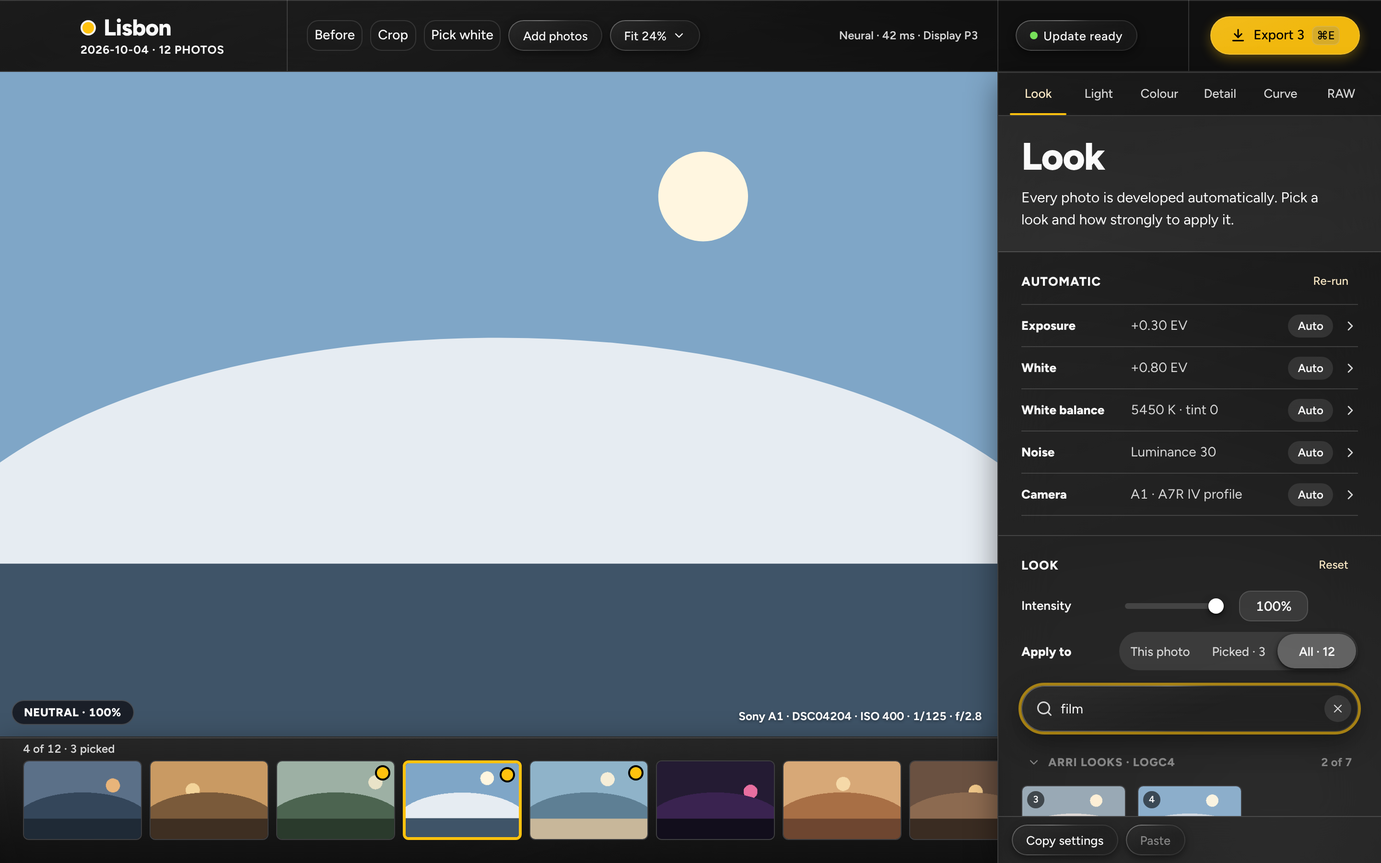
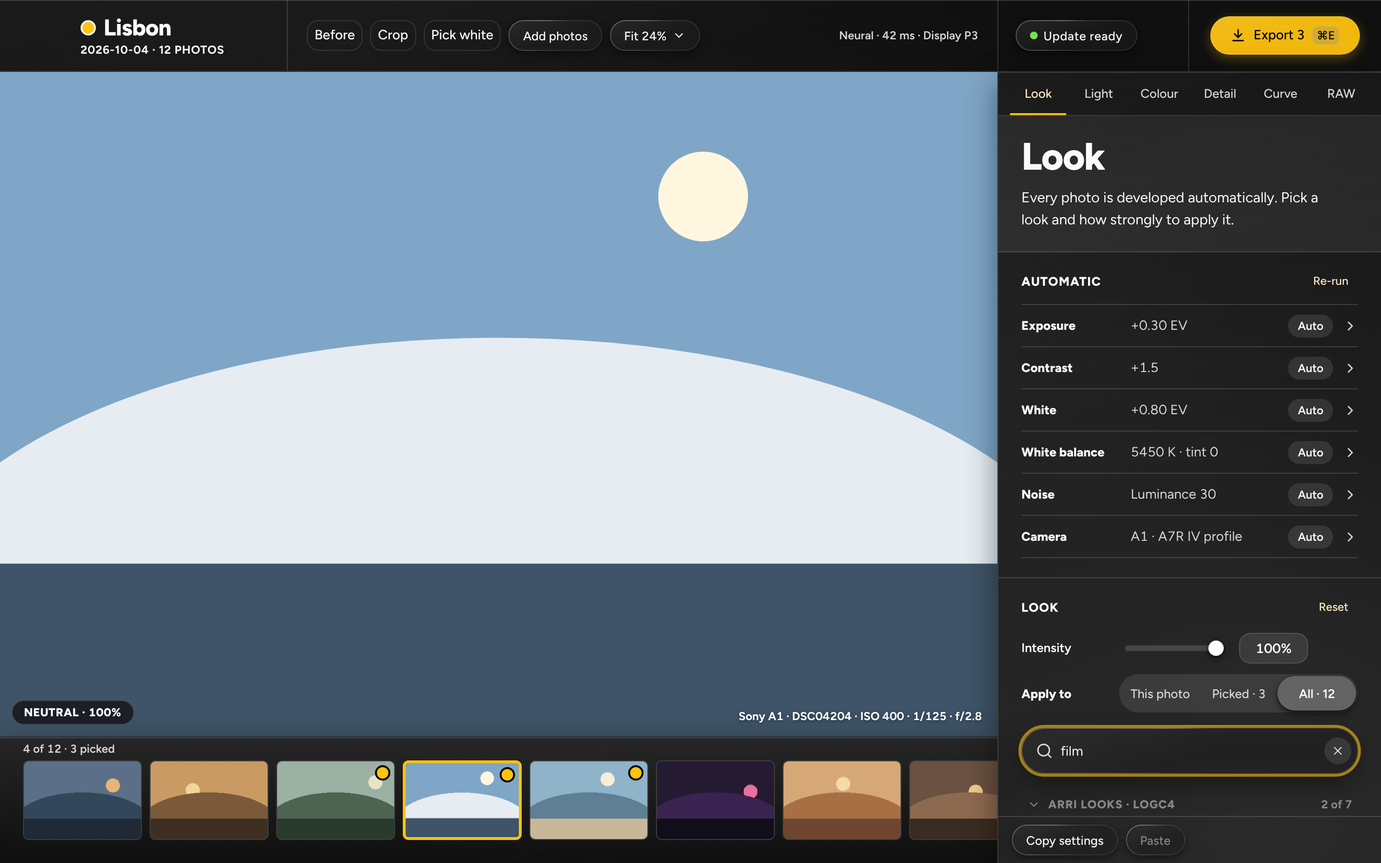
Frontend: contrast Auto or Manual, the Automatic card's Contrast row (AS-08)
Contrast is AutoOr like Exposure: Auto shows the photo's automatic
contrast, moving the slider makes it Manual, Reset returns Auto. The
Tone card's AUTO covers temperature and contrast; the Automatic card
gains a Contrast row; Re-run resets contrast with exposure. The Light
blurb now says exposure and contrast are set for each photo. Mock,
vitest (1593) and e2e updated; five screenshot references retaken for
the new row and blurb.

Claude-Session: https://claude.ai/code/session_015yVsquBXWFc8zJt2CLktQS

diff --git a/src/repo.node.test.ts b/src/repo.node.test.ts
@@ -60,9 +60,10 @@ describe("design tokens", () => {
 });
 
 describe("copy (docs/11 tab blurbs)", () => {
-  // Since 0.2.0 Auto exposure is the camera's own, so the Light tab no longer says it is set for each photo.
-  const LIGHT = "Exposure starts at your camera's own. Adjust it from there.";
-  const OLD = "Exposure is set for each photo automatically.";
+  // Since 0.5.0 Auto exposure and Auto contrast are chosen for each photo (docs/18); before that the line said exposure
+  // started at the camera's own, and before 0.2.0 that it was set for each photo automatically.
+  const LIGHT = "Exposure and contrast are set for each photo. Adjust them from there.";
+  const OLDS = ["Exposure is set for each photo automatically.", "Exposure starts at your camera's own. Adjust it from there."];
 
   it("the Light blurb is the same in the component, the mockup and docs/11", () => {
     expect(read("src/components/tabs.ts")).toContain(`blurb: "${LIGHT}"`);
@@ -70,9 +71,9 @@ describe("copy (docs/11 tab blurbs)", () => {
     expect(read("docs/11-ui.md")).toContain(`Light "${LIGHT}"`);
   });
 
-  it("the old Light blurb is gone from the component, the mockup and docs/11", () => {
-    for (const file of ["src/components/tabs.ts", "design/mockups/photos.html", "docs/11-ui.md"]) {
-      expect(read(file), file).not.toContain(OLD);
+  it("the old Light blurbs are gone from the component and the mockup", () => {
+    for (const file of ["src/components/tabs.ts", "design/mockups/photos.html"]) {
+      for (const old of OLDS) expect(read(file), file).not.toContain(old);
     }
   });
 });

diff --git a/src/api/bindings.ts b/src/api/bindings.ts
@@ -362,6 +362,20 @@ export type ColorWarpPin = {
 	exposure_ev: number,
 };
 
+/**
+ *  `contrast`: Auto, or a manual value from -100 to 100. The JSON is `{ "kind": "auto" }` or
+ *  `{ "kind": "manual", "value": 12 }`.
+ * 
+ *  (As `ExposureSetting`: each setting has its own enum with the same JSON as `types.ts`'s `AutoOr`.)
+ */
+export type ContrastSetting = 
+/**  Resolve from the photo's automatic estimates. */
+{ kind: "auto" } | 
+/**  The user's value. */
+{ kind: "manual"; 
+/**  Contrast, -100 to 100. */
+value: number };
+
 /**  The crop (per photo, in memory only): a rectangle, a straighten angle and an aspect. */
 export type Crop = {
 	/**  The frame. */
@@ -678,20 +692,6 @@ export type ExposureSetting =
 { kind: "manual"; 
 /**  Absolute exposure in stops, -4 to +4. */
 ev: number };
-
-/**
- *  `contrast`: Auto, or a manual value from -100 to 100. The JSON is `{ "kind": "auto" }` or
- *  `{ "kind": "manual", "value": 12 }`.
- *
- *  (As `ExposureSetting`: each setting has its own enum with the same JSON as `types.ts`'s `AutoOr`.)
- */
-export type ContrastSetting =
-/**  Resolve from the photo's automatic estimates. */
-{ kind: "auto" } |
-/**  The user's value. */
-{ kind: "manual";
-/**  Contrast, -100 to 100. */
-value: number };
 
 /**  Per-channel histogram of the current render, for the Light tab and the Curve plot. */
 export type HistogramData = {

diff --git a/src/api.mock.test.ts b/src/api.mock.test.ts
@@ -378,7 +378,7 @@ describe("settings", () => {
     expect((await api.rerunAuto(1)).values.output_sharpening).toBe(60);
   });
 
-  it("rerunAuto resets exposure, white balance and noise to Auto", async () => {
+  it("rerunAuto resets exposure, contrast, white balance and noise to Auto", async () => {
     await api.updateSettings(1, {
       exposure: { kind: "manual", ev: 1 },
       light_source: "tungsten",
@@ -387,8 +387,8 @@ describe("settings", () => {
       contrast: { kind: "manual", value: 20 },
     });
     const r = await api.rerunAuto(1);
-    expect(r.auto).toEqual({ exposure: true, contrast: false, light_source: true, white_balance: true, sharpen: true, noise_reduction: true });
-    expect(r.values.contrast).toBe(20); // other controls are not touched, contrast included (`docs/01`)
+    expect(r.auto).toEqual({ exposure: true, contrast: true, light_source: true, white_balance: true, sharpen: true, noise_reduction: true });
+    expect(r.values.contrast).toBe(4.2); // the photo's automatic contrast (`docs/01`: Re-run resets it with exposure)
   });
 
   it("gives each photo its own automatic contrast: a tenth, within ±30, with the model's confidences and version", async () => {

diff --git a/design/mockups/photos.html b/design/mockups/photos.html
@@ -286,7 +286,7 @@ class Component extends DCLogic {
     this.sg = sg;
     this.tabMeta = {
       look: { label: 'Look', bg: '#FFC20E', fg: '#000000', blurb: 'Every photo is developed automatically. Pick a look and how strongly to apply it.' },
-      light: { label: 'Light', bg: '#0DB7E8', fg: '#000000', blurb: 'Exposure starts at your camera\'s own. Adjust it from there.' },
+      light: { label: 'Light', bg: '#0DB7E8', fg: '#000000', blurb: 'Exposure and contrast are set for each photo. Adjust them from there.' },
       color: { label: 'Colour', bg: '#77E05A', fg: '#000000', blurb: 'White balance comes from the light in the scene. Set it by hand when you want a different mood.' },
       detail: { label: 'Detail', bg: '#F2B8AA', fg: '#000000', blurb: 'Sharpening and noise reduction, tuned for each ISO of your camera.' },
       curve: { label: 'Curve', bg: '#FF5A1F', fg: '#000000', blurb: 'Fine contrast, for all channels or one at a time.' },

diff --git a/e2e/screenshots.spec.ts b/e2e/screenshots.spec.ts
@@ -157,8 +157,10 @@ test.describe("Photos", () => {
     await photos(page);
     await page.getByRole("searchbox", { name: "Search looks" }).fill("film");
     await expect(page.getByText("2 of 7")).toBeVisible();
-    await expect.poll(async () => page.locator(".ym-look-tile img").count()).toBe(2);
+    // Since the Automatic card's Contrast row (docs/18) the grid starts just below the panel's fold at this size, and a tile asks
+    // for its picture only once it shows: lookTilesLoaded scrolls the first one into view, waits, and scrolls back.
     await lookTilesLoaded(page);
+    await expect.poll(async () => page.locator(".ym-look-tile img").count()).toBe(2);
     await compareScreen(page, "photos-look-search");
   });
 });

diff --git a/src/api.mock.ts b/src/api.mock.ts
@@ -1838,10 +1838,11 @@ export function createMockApi(initial: MockOptions = {}): MockApi {
     rerunAuto: (photoId) =>
       run("rerunAuto", () => {
         const rec = photo(photoId);
-        // Exposure, white (the lift's offset), white balance (including the light preset and a picked white) and noise.
+        // Exposure, contrast, white (the lift's offset), white balance (including the light preset and a picked white) and noise.
         rec.settings = {
           ...rec.settings,
           exposure: { kind: "auto" },
+          contrast: { kind: "auto" },
           white_offset_ev: 0,
           light_source: "auto",
           white_balance: { kind: "auto" },

diff --git a/src/components/TitleBlock.test.tsx b/src/components/TitleBlock.test.tsx
@@ -18,7 +18,7 @@ describe("TitleBlock", () => {
   it("has the six titles and blurbs of the mockup", () => {
     expect(TABS.map((t) => t.label)).toEqual(["Look", "Light", "Colour", "Detail", "Curve", "RAW"]);
     expect(TABS.find((t) => t.id === "curve")?.blurb).toBe("Fine contrast, for all channels or one at a time.");
-    expect(TABS.find((t) => t.id === "light")?.blurb).toBe("Exposure starts at your camera's own. Adjust it from there.");
+    expect(TABS.find((t) => t.id === "light")?.blurb).toBe("Exposure and contrast are set for each photo. Adjust them from there.");
   });
 
   it("can be the Export panel's black block", () => {

diff --git a/src/components/tabs.ts b/src/components/tabs.ts
@@ -19,7 +19,7 @@ export interface TabInfo {
 /** The tabs in bar order. ⌘1 selects the first, ⌘6 the last. */
 export const TABS: readonly TabInfo[] = [
   { id: "look", label: "Look", blurb: "Every photo is developed automatically. Pick a look and how strongly to apply it." },
-  { id: "light", label: "Light", blurb: "Exposure starts at your camera's own. Adjust it from there." },
+  { id: "light", label: "Light", blurb: "Exposure and contrast are set for each photo. Adjust them from there." },
   {
     id: "color",
     label: "Colour",

diff --git a/docs/11-ui.md b/docs/11-ui.md
@@ -79,7 +79,7 @@ Grid: columns `minmax(0, 1fr) 400px`; rows `75px auto minmax(124px, 1fr)`.
 | Curve | #FF5A1F | **Curve** (Luma · Red · Green · Blue; 320 × 220 plot with histogram; Input / Output readout) |
 | RAW | #0B5CC2 (white text) | **Camera** (Detected; Profile with STAND-IN tag when not exact; explanation) · **Decode** (Neural demosaic, Highlight recovery, Lens corrections from camera, Chromatic aberration) · **Range** (Highlights, Low light, a note; the owner's decision of 2026-10-17, the card was **Roll-off**) |
 
-Tab blurbs (from the mockup): Look "Every photo is developed automatically. Pick a look and how strongly to apply it." · Light "Exposure starts at your camera's own. Adjust it from there." (since 0.2.0 Auto exposure is the camera's own exposure, `docs/02`; the old line said it was set for each photo) · Colour "White balance comes from the light in the scene. Set it by hand when you want a different mood." · Detail "Sharpening and noise reduction, tuned for each ISO of your camera." · Curve "Fine contrast, for all channels or one at a time." · RAW "How the sensor data is decoded before any colour is applied."
+Tab blurbs (from the mockup): Look "Every photo is developed automatically. Pick a look and how strongly to apply it." · Light "Exposure and contrast are set for each photo. Adjust them from there." (since 0.5.0 Auto exposure and Auto contrast are chosen for each photo, `docs/18`; from 0.2.0 to 0.4.0 the line read "Exposure starts at your camera's own. Adjust it from there.", when Auto exposure was the camera's own) · Colour "White balance comes from the light in the scene. Set it by hand when you want a different mood." · Detail "Sharpening and noise reduction, tuned for each ISO of your camera." · Curve "Fine contrast, for all channels or one at a time." · RAW "How the sensor data is decoded before any colour is applied."
 
 Camera card copy: when `how = default`: "The A1 has no measured profile yet, so it borrows the A7R IV. Eleven Sony cameras have their own, and cameras that share their sensors use them." (body name substituted). When `SensorFamily`: "The <body> shares its sensor with the <profile body>, so it uses that profile." When Lossless M/S: add the REDUCED tag and the note from `docs/04`.
 
@@ -176,9 +176,9 @@ Start, Photos, the six tabs, Crop and Pick white are built in `src/screens/`, on
 - **Auto semantics.** A value equal to what Automatic resolves to *is* Automatic: typing +0.30 into Exposure, or dropping the slider on its detent, sends `{ exposure: { kind: "auto" } }` (the same for Contrast, Kelvin/Tint together, Sharpening and Noise reduction). Reset on a row of an Auto field sets only that value (and collapses to Auto when it matches); the card's Reset and the AUTO button send Auto. The AUTO button of the Exposure card says whether *exposure* is automatic, not Contrast or Brightness (Contrast has its own AUTO on its row, below). White balance counts as automatic only when `white_balance` is Auto, `light_source` is Auto and no white was picked.
 - **Output sharpening (the Output row of the Sharpening card; owner's decision of 2026-10-13, not in the mockup).** `design/mockups/photos-detail.html` has two rows in the Sharpening card; the third, **Output**, is added by that decision (`docs/16`) and the mockups are left as they were. The row is the standard slider: 0 to 200 %, step 5, the detent and Reset at **100 %**, the value shown as `100%` (`formats.percent`), no unit word, no AUTO tag. It is a plain number: moving it sends `{ output_sharpening: n }`, its own Reset and a double click send `{ output_sharpening: 100 }`, not Auto (`DevelopSettings.output_sharpening`, `docs/01`). Amount and Radius above it are the capture sharpening and stay exactly as they were (Auto, Richardson–Lucy). The card's Reset puts the whole card back: `{ sharpen: Auto, output_sharpening: 100 }` (like the Colour balance card, which resets its wheels and Saturation together). The viewport, the filmstrip thumbnails and the Look tiles show the sharpened picture as the slider moves, and the exports are made with it; the Before view, the histogram and the pixel readout do not (`docs/01`). Undo and redo take it like any field (one step per drag). There is nothing on the Export screen and no switch: 0 is off. The e2e screenshot of the Detail tab (`photos-detail`) therefore differs from the mockup's by the extra row; its budget in `e2e/helpers/compare.ts` is 2 % (measured 1.06 %). "Apply to" copies the look and its intensity only (`docs/01`), so the amount stays with the photo unless Copy settings and Paste move it (below: they take every setting but the crop, the orientation and the Pick white point, the output sharpening included; until the owner's request of 2026-10-16 the app had no copy-and-paste of other settings).
 - **Range card (the RAW tab's third card; owner's decision of 2026-10-17, `docs/02` C7, `docs/16`).** The card that was **Roll-off** is called **Range**, with the same two sliders and the same settings; Reset sends `{ rolloff: { highlights: 1, low_light: 0.5 } }`. **Highlights** is now the highlight range: 0 to 1 in steps of 0.01, the detent and Reset at 1 (the owner's choice of 2026-10-17; it was 0.5), shown with `formats.fixed2` (`1.00`); it moves where the camera's clipping point lands, from where it was recorded (0) to white (1), and leaves mid grey and everything up to a stop under the clip alone. **Low light** is unchanged (the toe near black). Under the two sliders a note (`RowNote`), word for word: "Highlights moves the brightest tones the camera recorded: 0 keeps them where they were, 1 takes them to white. Low light softens the noise near black." The labels name no camera maker (AGENTS rule 3); the spec and the CLI help say what the range models. The white lift's White card and White row stay (owner's decision of 2026-10-17: the range was first to replace them, then the lift was kept; see the next item). Tests: `src/screens/RangeCard.test.tsx` (the card's title, the two sliders, the note, Reset, a drag sends one `rolloff` patch), `e2e/` reference of the RAW tab retaken.
-- **White lift (the Light tab's White card and the Automatic card's White row; owner's decision of 2026-10-14, not in the mockup, `docs/02` C12 step 1b, `docs/16`).** The lift is an automatic setting: a per-photo scene-linear gain on the tones above +1 stop over middle grey, sized from the photo's own highlights when it is opened, that gives a high-key photo a real white (0 for a low-key one). **Automatic card:** a row **White** between Contrast and White balance, value `+0.77 EV` (the lift in effect, `values.white_ev`, `formats.ev` and " EV") or `None` when it is 0, the AUTO tag while the offset is 0 and EDITED otherwise, the arrow opening Light (accessible name `White +0.77 EV, Auto. Open Light`). **Light tab:** a second card, **White**, between Exposure and High dynamic range, with the AUTO button (accessible name "Auto white": ink while `white_offset_ev` is 0, pressing it sends `{ white_offset_ev: 0 }`), the card's Reset (the same patch) and one slider, **Offset**: −3 to +3 stops in steps of 0.05, the detent and Reset at 0 (the automatic amount), shown as signed stops with `formats.ev` and no unit word (`0.00`, `+0.30`, `−0.50`). It is a plain number, not Auto: moving it sends `{ white_offset_ev: n }` and shows at once (the Automatic card's row follows with the core's reply: `values.white_ev` is the automatic amount plus the offset, never below 0, so an offset of minus the automatic amount, or lower, reads `None` and gives the render of no lift). The row is called Offset because the Light tab already has a **White** slider in High dynamic range (the C9 control, −100 to 100); the two are different settings and the card is named White after the Automatic card's row, as the owner called it. Re-run on the Automatic card puts the offset back to 0 with exposure, white balance and noise. Undo and redo take it like any field (one step per drag). The lift acts only with the built-in ACES 2 display rendering; with an imported ARRI display LUT or a look with its own display rendering the slider still moves but nothing changes in the picture (ARRI's highlights). Tests: `src/screens/WhiteCard.test.tsx` (the card, the row, the AUTO semantics, Re-run, undo), `src/repo.node.test.ts` (the Light blurb), `e2e/` screenshots (the Light and Look tabs differ from the mockup by the new card and row; their budgets are in `e2e/helpers/compare.ts`).
+- **White lift (the Light tab's White card and the Automatic card's White row; owner's decision of 2026-10-14, not in the mockup, `docs/02` C12 step 1b, `docs/16`).** The lift is an automatic setting: a per-photo scene-linear gain on the tones above +1 stop over middle grey, sized from the photo's own highlights when it is opened, that gives a high-key photo a real white (0 for a low-key one). **Automatic card:** a row **White** between Contrast and White balance, value `+0.77 EV` (the lift in effect, `values.white_ev`, `formats.ev` and " EV") or `None` when it is 0, the AUTO tag while the offset is 0 and EDITED otherwise, the arrow opening Light (accessible name `White +0.77 EV, Auto. Open Light`). **Light tab:** a second card, **White**, between Exposure and High dynamic range, with the AUTO button (accessible name "Auto white": ink while `white_offset_ev` is 0, pressing it sends `{ white_offset_ev: 0 }`), the card's Reset (the same patch) and one slider, **Offset**: −3 to +3 stops in steps of 0.05, the detent and Reset at 0 (the automatic amount), shown as signed stops with `formats.ev` and no unit word (`0.00`, `+0.30`, `−0.50`). It is a plain number, not Auto: moving it sends `{ white_offset_ev: n }` and shows at once (the Automatic card's row follows with the core's reply: `values.white_ev` is the automatic amount plus the offset, never below 0, so an offset of minus the automatic amount, or lower, reads `None` and gives the render of no lift). The row is called Offset because the Light tab already has a **White** slider in High dynamic range (the C9 control, −100 to 100); the two are different settings and the card is named White after the Automatic card's row, as the owner called it. Re-run on the Automatic card puts the offset back to 0 with exposure, contrast, white balance and noise. Undo and redo take it like any field (one step per drag). The lift acts only with the built-in ACES 2 display rendering; with an imported ARRI display LUT or a look with its own display rendering the slider still moves but nothing changes in the picture (ARRI's highlights). Tests: `src/screens/WhiteCard.test.tsx` (the card, the row, the AUTO semantics, Re-run, undo), `src/repo.node.test.ts` (the Light blurb), `e2e/` screenshots (the Light and Look tabs differ from the mockup by the new card and row; their budgets are in `e2e/helpers/compare.ts`).
 - **Tone card (the Look tab's third card; owner's decision of 2026-10-13, not in the mockup, `docs/16`).** `design/mockups/photos-look.html` has two cards on the Look tab; the third, **Tone**, sits directly under the Look card and has three rows in this order: **Temperature**, **Contrast**, **Saturation**. They are the *same settings* as Colour › White balance › Kelvin, Light › Exposure › Contrast and Colour › Colour balance › Saturation (`white_balance`, `contrast`, `saturation`; no new `DevelopSettings` field). Both copies are built from the same code (`src/screens/tools/controls.tsx`: `KelvinSlider`, `ContrastSlider`, `SaturationSlider`), read the resolved value and send the same patch through `store.update`, so moving one moves the other, and undo, redo and Reset take them like any field (one undo step per drag). Contrast is Auto or Manual, as on the Light tab (see *Contrast*, below). Saturation: −100…100, step 1, default and Reset 0, read as `formats.signed`. **Temperature is the Kelvin control, unchanged:** 2000–11000 K in steps of 50, the detent and the box showing the photo's Auto Kelvin (`5450 K`), the row's own Reset sends the Auto Kelvin with the current tint and the light preset and picked white cleared (that is Auto while the tint is Auto), dropping on the Auto value sends `white_balance: auto`, and moving it on an Auto white balance makes it Manual at that Kelvin with the Auto tint, as a patch with only `kelvin` does. **Tint stays on the Colour tab only**, and nothing is removed from Light or Colour. The card header has the AUTO button and, after a Pick white, the EDITED tag, exactly as the White balance card (`whiteBalanceState`: automatic only when `white_balance` is Auto, `light_source` is Auto and no white was picked). **The card's AUTO speaks for Temperature and Contrast together** (owner's decision of 2026-10-18, `docs/18` §7): it is pressed only while both are Auto (accessible name "Auto temperature and contrast"), and pressing it while either is Manual sends both to Auto in one update (`toneToAuto`, one undo step). It does not speak for Saturation, which is never Auto. The card's Reset sends `{ white_balance: auto, light_source: auto, white_pick: null, contrast: auto, saturation: 0 }` (the tint goes with the white balance, as with the White balance card's Reset; Contrast goes back to Auto, as on the Light tab). The labels differ between the tabs (Temperature here, Kelvin on Colour) because the person looking at the Look tab has not met the word Kelvin; the value box reads `5450 K` on both. Saturation is subtractive (`docs/02` C9): more makes colours denser and darker, less makes them paler. Tests: `src/screens/ToneCard.test.tsx` (sync both ways, undo and redo, Auto semantics, Reset, the combined AUTO) and `e2e/tone.spec.ts`. None of the mockup's screenshots shows the card: in every Look state it lies below the visible part of the panel (even with the search `film` leaving two tiles), so the three Look comparisons are unchanged (0.15 %, 0.24 % and 0.39 %) and need no budget.
-- **Contrast: Auto or Manual (owner's decision of 2026-10-18, `docs/18` §7; not in the mockup).** `contrast` is `{ kind: "auto" }` or `{ kind: "manual", value }`, a value from −100 to 100 in steps of 1, and Auto is the default for a new photo. Auto resolves to the photo's own automatic contrast (`AutoEstimates.contrast`, a multiple of 0.1 within ±30, from the model of `docs/18` §4). **Light tab, Exposure card:** the Contrast row reads the effective value with one decimal and a sign (`formats.signed1`: "+4.2", "−2.0", "0.0"; a manual value reads the same way, "+25.0"). Its default marker is the automatic value. While it is Auto, the row's Reset column holds the row's AUTO toggle, pressed (accessible name "Auto contrast"; `Slider`'s `status`, as the card headers have it), and pressing it does nothing. Moving the knob or typing sends `{ contrast: { kind: "manual", value } }` and shows at once; a value equal to the automatic one is Auto (`manualOrAuto`). Once it is Manual the Reset column holds the row's own Reset ("Reset Contrast"), which sends `{ contrast: { kind: "auto" } }`. The card's Reset sends `{ exposure: auto, contrast: auto, brightness: 0 }` in one update. The card's AUTO button still says whether exposure is automatic. **Tone card:** the same row (see *Tone card*). **Re-run** on the Automatic card leaves contrast as it is, as `docs/01` lists the fields it resets. Tests: `src/screens/ContrastCard.test.tsx` (the row, its AUTO and Reset, the card's Reset, the Automatic row), `src/screens/ToneCard.test.tsx`, `src/api.mock.test.ts` (the estimates, the resolution), `e2e/auto-contrast.spec.ts`.
+- **Contrast: Auto or Manual (owner's decision of 2026-10-18, `docs/18` §7; not in the mockup).** `contrast` is `{ kind: "auto" }` or `{ kind: "manual", value }`, a value from −100 to 100 in steps of 1, and Auto is the default for a new photo. Auto resolves to the photo's own automatic contrast (`AutoEstimates.contrast`, a multiple of 0.1 within ±30, from the model of `docs/18` §4). **Light tab, Exposure card:** the Contrast row reads the effective value with one decimal and a sign (`formats.signed1`: "+4.2", "−2.0", "0.0"; a manual value reads the same way, "+25.0"). Its default marker is the automatic value. While it is Auto, the row's Reset column holds the row's AUTO toggle, pressed (accessible name "Auto contrast"; `Slider`'s `status`, as the card headers have it), and pressing it does nothing. Moving the knob or typing sends `{ contrast: { kind: "manual", value } }` and shows at once; a value equal to the automatic one is Auto (`manualOrAuto`). Once it is Manual the Reset column holds the row's own Reset ("Reset Contrast"), which sends `{ contrast: { kind: "auto" } }`. The card's Reset sends `{ exposure: auto, contrast: auto, brightness: 0 }` in one update. The card's AUTO button still says whether exposure is automatic. **Tone card:** the same row (see *Tone card*). **Re-run** on the Automatic card puts contrast back to Auto, with exposure, the white lift's offset, white balance and noise (`docs/01`). Tests: `src/screens/ContrastCard.test.tsx` (the row, its AUTO and Reset, the card's Reset, the Automatic row), `src/screens/ToneCard.test.tsx`, `src/api.mock.test.ts` (the estimates, the resolution), `e2e/auto-contrast.spec.ts`.
 - **Automatic card, Contrast row (AS-08, `docs/18` §7).** The row sits after Exposure and before White: label **Contrast**, the value as the Light tab's readout (`formats.signed1`, "+4.2"), the AUTO tag while Auto and EDITED otherwise (`Tag`, from `isAuto`), and the arrow that opens Light. Accessible name `Contrast +4.2, Auto. Open Light`. The Exposure row keeps its place. No card is added.
 - **Light presets.** `light_source` is sent as it is; while White balance is Auto the core resolves a kelvin for the preset (the mock: Day 5500, Shade 7500, Tung. 3200, LED 4800, Fluor. 4100) and the Kelvin box shows it as a change.
 - **Undo and redo** are per photo, in memory, 100 steps. An entry holds only the fields one change touched (before and after, as two patches), so changes made by "Apply to" on other photos never get in the way. A whole drag, or a whole crop session, is one step. ⌘Z waits for patches in flight. "Re-run" is a step. A paste is one step in the history of each photo it changed (the core says which fields changed, `paste_settings`), so ⌘Z on a photo takes that photo's paste back and no other.
